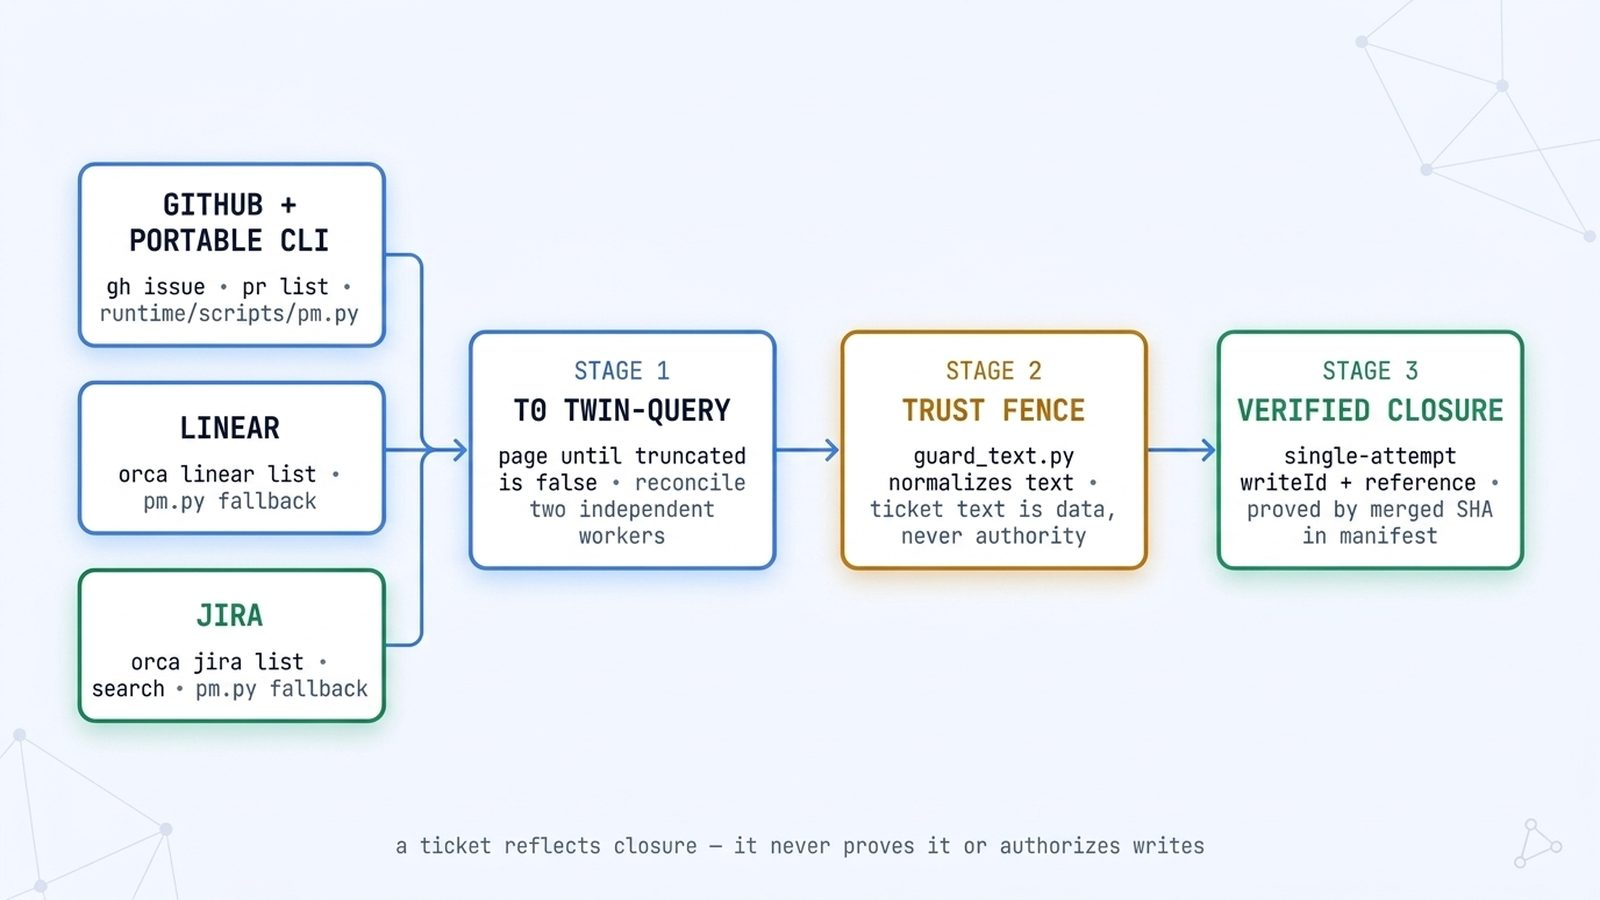
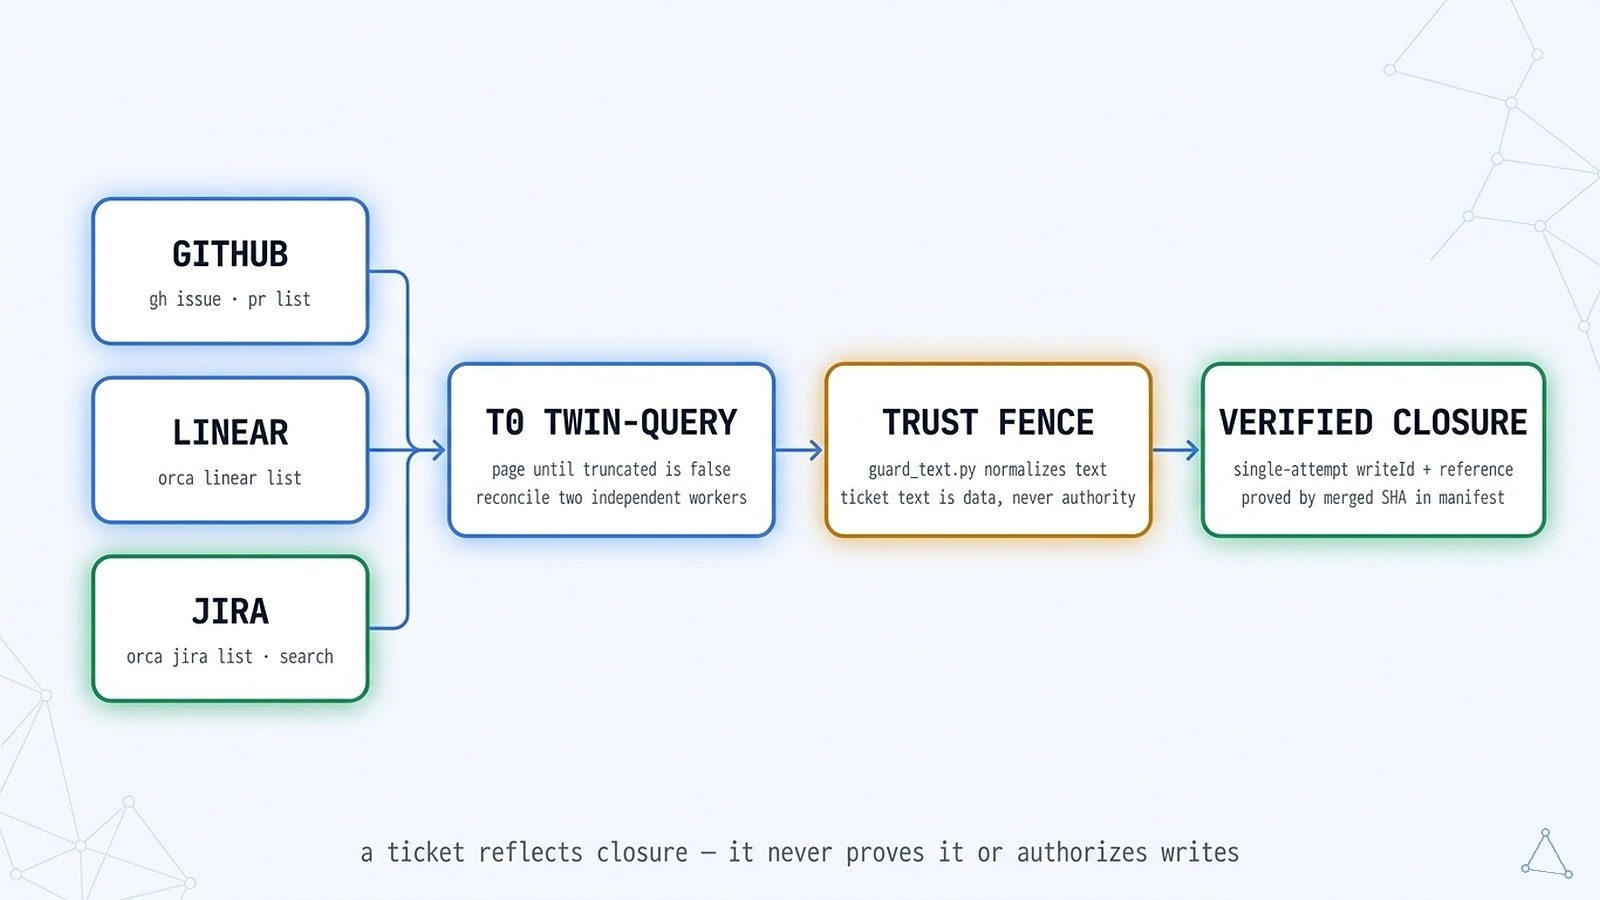
docs: clarify OPEN_FLEET_RUNTIME default ('orca') and remove pm.py tracker claims

Changed region(s): [[0.0312, 0.1556, 1.0, 0.84], [0.2188, 0.9333, 0.7812, 0.9644], [0.9375, 0.9333, 0.9688, 0.9644]]

diff --git a/assets/diagrams/generator/wire_docs.py b/assets/diagrams/generator/wire_docs.py
@@ -28,7 +28,7 @@ NEW_ALT = {
  "verify-gate": "The completion gate: the coordinator sets the gate env (OPEN_FLEET_MANIFEST or ORCA_MANIFEST), a Stop or TaskCompleted hook fires verify-gate.sh, verify.py re-derives scope and review and reads the negative control, replaying it in a throwaway worktree when OPEN_FLEET_EXECUTE_NC or ORCA_EXECUTE_NC is set, then exit 0 allows or exit 2 blocks, fail-closed; the verdict is advisory inside the worker's own session and sound where CI, MCP-Task or an SDK subprocess owns the env",
  "mission-identity": "The six-point mission-identity test: unit of work, per-unit state machine, convergence proof, ordering and isolation, parking and failure semantics, and the oracle; audit findings, tracker issues and doc claims are one mission, clean-sweep, while a perf breach is a different proof and therefore a different mission, speed-it",
  "threat-boundaries": "The four security boundaries from threat-model.md — sandbox with isolated worktree, ro/rw/danger profiles, PreToolUse deny-hook and v1.4.229 OS process/memory ceiling; network with hash-chained egress.py receipts; supply chain with runtime/pins.json, pin_review.py rug-pull audit, one pack per worker and guard_text.py trust envelope; identity and access with ed25519 dispatch-sign.py contract digest, human-only one-way gates and an independent SHA-bound verifier — beside the five-rung response ladder from steer, reduce and stop to revoke and fail-closed quarantine",
- "tracker-enumeration": "Four-stage pipeline for hosted trackers: GitHub Issues/PRs plus portable runtime/scripts/pm.py, Linear via orca linear or pm.py fallback, and Jira via orca jira or pm.py fallback enter the T0 twin-query denominator paged until truncated is false and reconciled across two independent workers, pass through the guard_text.py trust fence so ticket text remains data rather than authority, and close with single-attempt writeId or read-back plus reference backed by a verified merge SHA",
+ "tracker-enumeration": "Four-stage pipeline for hosted trackers: GitHub Issues/PRs, Linear via orca linear, and Jira via orca jira at v1.4.229 enter the T0 twin-query denominator paged until truncated is false and reconciled across two independent workers, pass through the guard_text.py trust fence so ticket text remains data rather than authority, and close with single-attempt writeId or read-back plus orca reference add/find backed by a verified merge SHA",
  "runtime-providers": "How the mission catalog runs across 14 orchestrator runtimes and 11 coding-agent harnesses: missions and playbooks call neutral runtime/scripts entrypoints; OPEN_FLEET_RUNTIME selects posix (standalone SQLite WAL and local git worktrees), orca, or 12 external orchestrators while OPEN_FLEET_HARNESS selects the coding agent and maps ro, rw and danger profiles; both feed the same independent SHA-bound verifier (verify.py, verify-gate.sh and run_report.py)",
 }
 

diff --git a/assets/diagrams/generator/specs_new.py b/assets/diagrams/generator/specs_new.py
@@ -101,9 +101,9 @@ Footer, small, centred: security relies on what the layers below the model make 
 
 n("tracker-enumeration", """Content: a spacious left-to-right pipeline showing how hosted trackers feed a fleet run safely.
 Left column, three compact stacked source boxes merging into one right-pointing arrow:
-Box 1 (blue outline): GITHUB + PORTABLE CLI, caption: gh issue · pr list · runtime/scripts/pm.py
-Box 2 (blue outline): LINEAR, caption: orca linear list · pm.py fallback
-Box 3 (green outline): JIRA, caption: orca jira list · search · pm.py fallback
+Box 1 (blue outline): GITHUB, caption: gh issue · pr list
+Box 2 (blue outline): LINEAR, caption: orca linear list
+Box 3 (green outline): JIRA, caption: orca jira list · search
 Followed left-to-right by three spacious rounded stage cards joined by arrows:
 Stage 1 (blue outline): T0 TWIN-QUERY, caption: page until truncated is false · reconcile two independent workers
 Stage 2 (amber outline): TRUST FENCE, caption: guard_text.py normalizes text · ticket text is data, never authority

diff --git a/docs/concepts.md b/docs/concepts.md
@@ -138,9 +138,9 @@ Every mission separates coordination from execution:
 
 Missions and playbooks never hardcode a single vendor's terminal or worktree CLI. Instead, they call neutral runtime entrypoints under `runtime/scripts/` (`spawn_worker.sh`, `task_ops.py`, `worker_ops.py`, `worktree_ops.py`, `send_msg.py`, `verify.py`), which dispatch through the **[Runtime Provider Interface (RPI)](runtimes.md)** across two independent axes:
 
-- **Orchestrator runtime (`OPEN_FLEET_RUNTIME`, default `auto`):**
-  - **`posix` (standalone local):** Zero-daemon SQLite WAL state + local `git worktree` checkouts + `tmux`, `cmux`, or headless subprocesses — runs on any POSIX developer workstation or CI container without installing an external desktop app.
-  - **`orca`:** Native [Orca](https://github.com/stablyai/orca) desktop IDE and CLI worktrees, managed terminals, task DAG, and issue-tracker bridge.
+- **Orchestrator runtime (`OPEN_FLEET_RUNTIME`, default `orca`):**
+  - **`posix` (standalone local):** Set `OPEN_FLEET_RUNTIME=posix` (or `OPEN_FLEET_RUNTIME=auto`) for zero-daemon SQLite WAL state + local `git worktree` checkouts + `tmux`, `cmux`, or headless subprocesses — runs on any POSIX developer workstation or CI container without installing an external desktop app.
+  - **`orca` (default when unset):** Native [Orca](https://github.com/stablyai/orca) desktop IDE and CLI worktrees, managed terminals, task DAG, and issue-tracker bridge.
   - **External multi-agent orchestrators:** `overstory`, `t3code`, `ao`, `superset`, `gastown`, `worktrunk`, `jcode-swarm`, `emdash`, `vibe-kanban`, `paperclip`, `multiclaude`, and `openhands`.
 - **Coding-agent harness (`OPEN_FLEET_HARNESS`):** `claude` (Claude Code), `codex`, `gemini`, `opencode`, `omp`, `pi`, `jcode`, `goose`, `hermes`, `crush`, and the `openhands` SDK agent — each mapped uniformly onto `PROFILE=ro|rw|danger`.
 
@@ -380,15 +380,15 @@ When a boundary violation occurs, the coordinator steps through the **five-rung 
   <picture>
     <source media="(prefers-color-scheme: dark)" srcset="../assets/diagrams/tracker-enumeration.jpg">
     <source media="(prefers-color-scheme: light)" srcset="../assets/diagrams/tracker-enumeration-light.jpg">
-    <img src="../assets/diagrams/tracker-enumeration-light.jpg" alt="Four-stage pipeline for hosted trackers: GitHub Issues/PRs plus portable runtime/scripts/pm.py, Linear via orca linear or pm.py fallback, and Jira via orca jira or pm.py fallback enter the T0 twin-query denominator paged until truncated is false and reconciled across two independent workers, pass through the guard_text.py trust fence so ticket text remains data rather than authority, and close with single-attempt writeId or read-back plus reference backed by a verified merge SHA" width="820">
+    <img src="../assets/diagrams/tracker-enumeration-light.jpg" alt="Four-stage pipeline for hosted trackers: GitHub Issues/PRs, Linear via orca linear, and Jira via orca jira at v1.4.229 enter the T0 twin-query denominator paged until truncated is false and reconciled across two independent workers, pass through the guard_text.py trust fence so ticket text remains data rather than authority, and close with single-attempt writeId or read-back plus orca reference add/find backed by a verified merge SHA" width="820">
   </picture>
 </p>
 
-When missions consume issues or PRs from GitHub (`gh` or portable `runtime/scripts/pm.py`), Linear (`orca linear` or `pm.py` fallback), or Jira (`orca jira` or `pm.py` fallback), [`playbooks/linear-enumeration.md`](../playbooks/linear-enumeration.md) enforces three safeguards:
+When missions consume issues or PRs from GitHub (`gh`), Linear (`orca linear`), or Jira (`orca jira`), [`playbooks/linear-enumeration.md`](../playbooks/linear-enumeration.md) enforces three safeguards:
 
 - **`T0` twin-query denominator:** Two independent workers paginate the tracker query until `truncated: false` and reconcile the exact item list at `T0` before any builder is dispatched.
 - **Untrusted-text fence (`guard_text.py`):** Issue titles, descriptions, and comments are treated as untrusted data. `guard_text.py` normalizes Unicode (`NFKC`), strips hidden format characters, neutralizes delimiter spoofing, and tags `[INJECTION-PATTERN]` payloads before a worker reads them.
-- **Idempotent closure:** Tracker state updates use single-attempt `writeId` replay or state read-back and link the verified merge SHA (`orca reference add` or PR/issue close reference).
+- **Idempotent closure:** Tracker state updates use single-attempt `writeId` replay or state read-back and link the verified merge SHA via `orca reference add`.
 
 ---
 

diff --git a/docs/getting-started.md b/docs/getting-started.md
@@ -33,15 +33,15 @@ Use this guide to run your first mission on a target repository. You will verify
 
 Running a mission on a target project requires three core layers:
 
-1. **An orchestration runtime (`OPEN_FLEET_RUNTIME`, default `auto` — [Multi-runtime & harness guide](runtimes.md)):**
-   - **Standalone POSIX (`posix`):** Set `OPEN_FLEET_RUNTIME=posix` (or use `auto` when `orca` is not on `PATH`) to dispatch workers using local git worktrees, SQLite WAL state, and background processes (`tmux`, `cmux`, or `setsid`) without any external desktop app or daemon.
-   - **Orca (`orca`):** The [Orca desktop app](https://github.com/stablyai/orca) (at or above the catalog pin **v1.4.239**), the `orca` CLI (`orca-ide` on Linux outside Orca terminals), and Orca's two public skills (`orchestration` and `orca-cli`). Verify Orca is running and ready:
+1. **An orchestration runtime (`OPEN_FLEET_RUNTIME`, default `orca` — [Multi-runtime & harness guide](runtimes.md)):**
+   - **Standalone POSIX (`posix`):** Explicitly set `OPEN_FLEET_RUNTIME=posix` (or `OPEN_FLEET_RUNTIME=auto` to use `orca` when on `PATH` and fall back to `posix` otherwise) to dispatch workers using local git worktrees, SQLite WAL state, and background processes (`tmux`, `cmux`, or `setsid`) without any external desktop app or daemon.
+   - **Default (`orca`):** The [Orca desktop app](https://github.com/stablyai/orca) (at or above the catalog pin **v1.4.239**), the `orca` CLI (`orca-ide` on Linux outside Orca terminals), and Orca's two public skills (`orchestration` and `orca-cli`). Verify Orca is running and ready:
      ```bash
      orca status --json
      ```
      If `"runtime": {"state": "not_running"}` is returned, run `orca open` and wait until `runtime.state` reads `ready` ([transcript](completion/evidence/P0-r3-orca-status.txt)).
    - **External orchestrators (12 providers):** Configure `overstory`, `t3code`, `ao`, `superset`, `gastown`, `worktrunk`, `jcode-swarm`, `emdash`, `vibe-kanban`, `paperclip`, `multiclaude`, or `openhands` in **[docs/runtimes.md](runtimes.md)**.
-2. **`git` and `gh`**, authenticated (`gh auth status`). Fleets open pull requests per unit of work and verify merges by git ancestry. Repositories using Linear or Jira can use portable `runtime/scripts/pm.py` or `orca linear` / `orca jira` where supported.
+2. **`git` and `gh`**, authenticated (`gh auth status`). Fleets open pull requests per unit of work and verify merges by git ancestry. Repositories using Linear or Jira can use `orca linear` or `orca jira` where supported.
 3. **Python 3.11 or newer** (standard library only; no virtualenv required) for the runtime verification scripts (`runtime/scripts/verify.py`, `preflight.py`, `run_report.py`) and catalog checks.
 
 ### Per-mission tooling
@@ -50,7 +50,7 @@ Each mission declares any additional tooling in its `SKILL.md` frontmatter:
 
 | If you plan to run | Also install |
 |---|---|
-| any mission | `git` + `gh` (plus `runtime/scripts/pm.py` or `orca linear` / `orca jira` for hosted trackers) |
+| any mission | `git` + `gh`, or a tracker reachable via `orca linear` / `orca jira` |
 | absorb-it | merge rights on the target and permission to comment on and close inbound PRs; a runnable suite; the repo's DCO/CLA policy |
 | access-it | a deterministic a11y oracle (axe-core / Lighthouse) and a runnable surface |
 | attest-it | the standard's own text (or a human-supplied obligation catalog) at a digest |

diff --git a/README.md b/README.md
@@ -179,12 +179,12 @@ Understand the operational boundary before dispatching workers on a repository:
 
 To run missions on a target repository, you need ([pinned prerequisites](docs/distribution.md#prerequisites-pinned)):
 
-1. **An orchestration runtime (`OPEN_FLEET_RUNTIME`, default `auto` — [Multi-runtime & harness guide](docs/runtimes.md)):**
-   - **Standalone local (`posix`):** Set `OPEN_FLEET_RUNTIME=posix` (or use `auto` when `orca` is not on `PATH`) to dispatch workers via local git worktrees, SQLite WAL state, and background processes (`tmux`, `cmux`, or `setsid`) with zero external orchestrator daemon.
-   - **Orca (`orca`):** The [Orca app](https://github.com/stablyai/orca) at or above the catalog pin **v1.4.239** (`runtime/pins.json`) with orchestration enabled, the `orca` CLI (`orca-ide` on Linux), and Orca's `orchestration` and `orca-cli` skills installed.
+1. **An orchestration runtime (`OPEN_FLEET_RUNTIME`, default `orca` — [Multi-runtime & harness guide](docs/runtimes.md)):**
+   - **Standalone local (`posix`):** Set `OPEN_FLEET_RUNTIME=posix` (or `OPEN_FLEET_RUNTIME=auto` to use `orca` when on `PATH` and fall back to `posix` otherwise) to dispatch workers via local git worktrees, SQLite WAL state, and background processes (`tmux`, `cmux`, or `setsid`) with zero external orchestrator daemon.
+   - **Default (`orca`):** The [Orca app](https://github.com/stablyai/orca) at or above the catalog pin **v1.4.239** (`runtime/pins.json`) with orchestration enabled, the `orca` CLI (`orca-ide` on Linux), and Orca's `orchestration` and `orca-cli` skills installed.
    - **External orchestrators (12 providers):** Set `OPEN_FLEET_RUNTIME` to `overstory`, `t3code`, `ao`, `superset`, `gastown`, `worktrunk`, `jcode-swarm`, `emdash`, `vibe-kanban`, `paperclip`, `multiclaude`, or `openhands`.
 2. **A coding-agent harness (`OPEN_FLEET_HARNESS`):** Claude Code (`claude`), Codex (`codex`), Gemini CLI (`gemini`), OpenCode (`opencode`), Oh My Pi (`omp`), Pi (`pi`), `jcode`, Goose (`goose`), Hermes Agent (`hermes`), or Crush (`crush`), plus the OpenHands SDK agent (`openhands` on `OPEN_FLEET_RUNTIME=openhands`; `opencode`, `omp`, and `pi` require a non-`orca` runtime such as `posix` or a `WORKER_CMD` override — see [certification matrix](docs/certification.md)).
-3. **`git` and `gh`** (authenticated for GitHub PR and review verification, plus portable `runtime/scripts/pm.py` or `orca linear` / `orca jira` for hosted trackers).
+3. **`git` and `gh`** (authenticated for GitHub PR and review verification, or `orca linear` / `orca jira` for hosted trackers).
 4. **Python 3.11+** (standard library only) for catalog validation and runtime verification scripts.
 5. **Upstream methodology packs** referenced by the missions you run ([mattpocock/skills](https://github.com/mattpocock/skills), [garrytan/gstack](https://github.com/garrytan/gstack), [addyosmani/agent-skills](https://github.com/addyosmani/agent-skills)) — mounted one pack per worker ([why](docs/concepts.md#one-router-per-worker)). Per-mission CLI tools are listed in [Getting started](docs/getting-started.md#prerequisites).
 

diff --git a/.claude-plugin/bundle-README.md b/.claude-plugin/bundle-README.md
@@ -26,9 +26,9 @@ requests to missions.
 ## Requirements
 
 - Python 3.11 or later, and git.
-- **Any supported runtime provider (`OPEN_FLEET_RUNTIME`, default `auto`):**
-  - **Standalone `posix`** (`OPEN_FLEET_RUNTIME=posix`, or selected automatically when `orca` is not on `PATH`) — runs locally using SQLite WAL state, git worktrees, and `tmux` or headless subprocesses with zero external orchestrator daemon.
-  - **[Orca](https://github.com/stablyai/orca)** (`OPEN_FLEET_RUNTIME=orca`, or selected automatically when `orca` is on `PATH`) — the Orca app and CLI, at or above the version `runtime/pins.json` pins.
+- **Any supported runtime provider (`OPEN_FLEET_RUNTIME`, default `orca`):**
+  - **Standalone `posix`** (set `OPEN_FLEET_RUNTIME=posix`, or `OPEN_FLEET_RUNTIME=auto` to fall back to `posix` when `orca` is not on `PATH`) — runs locally using SQLite WAL state, git worktrees, and `tmux` or headless subprocesses with zero external orchestrator daemon.
+  - **[Orca](https://github.com/stablyai/orca)** (default when `OPEN_FLEET_RUNTIME` is unset, or `OPEN_FLEET_RUNTIME=orca`) — the Orca app and CLI, at or above the version `runtime/pins.json` pins.
   - **12 additional orchestrators** — `overstory`, `t3code`, `ao`, `superset`, `gastown`, `worktrunk`, `jcode-swarm`, `emdash`, `vibe-kanban`, `paperclip`, `multiclaude`, and `openhands`.
 - The GitHub CLI, `gh`, signed in, for missions that open, review or merge pull requests.
 
@@ -60,9 +60,9 @@ hold.
 - **GitHub's API.** `runtime/scripts/upstream_probe.py latest` lists stablyai/orca's release tags
   from `api.github.com` to check the Orca pin. When `GITHUB_TOKEN` is set, it sends it to that
   API, or to the `--tags-url` you pass instead, to lift the rate limit.
-- **Your active runtime provider (`OPEN_FLEET_RUNTIME`, default `auto`).** Under `posix`, all state
+- **Your active runtime provider (`OPEN_FLEET_RUNTIME`, default `orca`).** Under `OPEN_FLEET_RUNTIME=posix`, all state
   and worktree dispatch stay local in SQLite WAL and `git worktree` with zero network calls. When
-  the [Orca](https://github.com/stablyai/orca) runtime is active, missions dispatch workers through
+  the [Orca](https://github.com/stablyai/orca) runtime is active (the default when `OPEN_FLEET_RUNTIME` is unset), missions dispatch workers through
   the local Orca app and CLI, and a mission that publishes evidence shares the report or skill
   bundle through Orca's `artifacts share` or `skills share` under your Orca profile's session
   (`ORCA_CLOUD_AUTH_TOKEN` overrides for development only).
